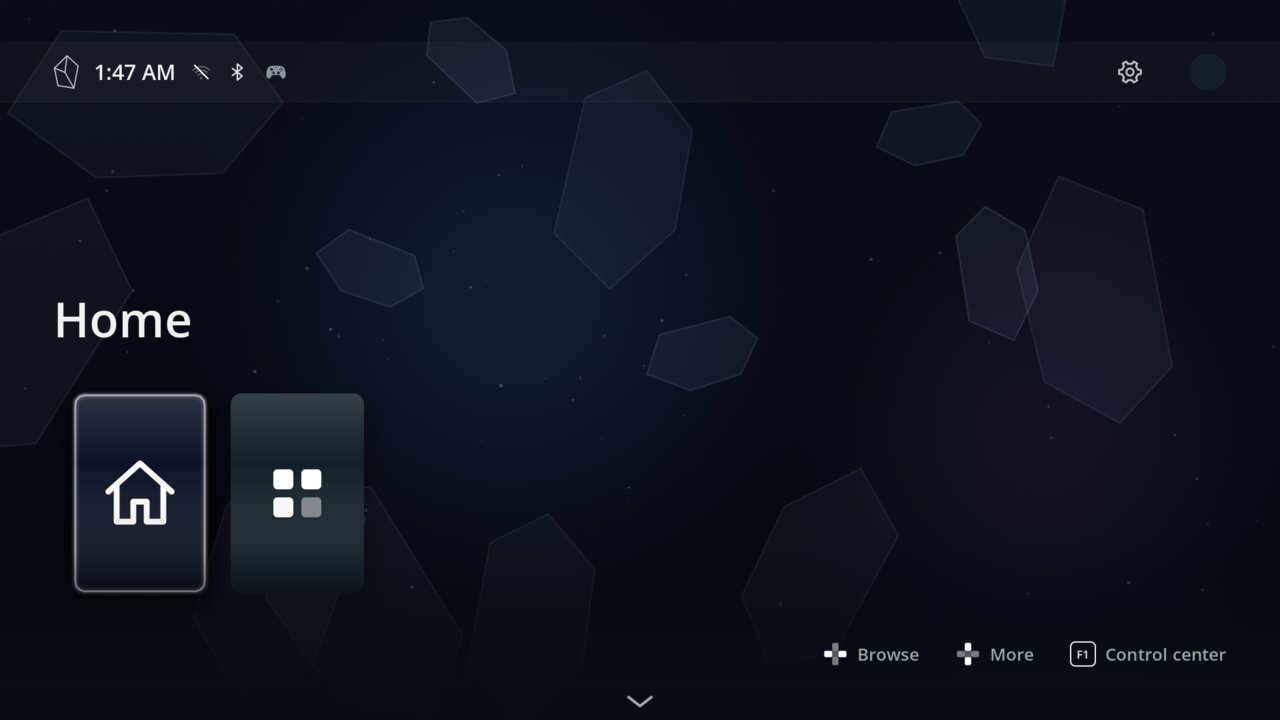
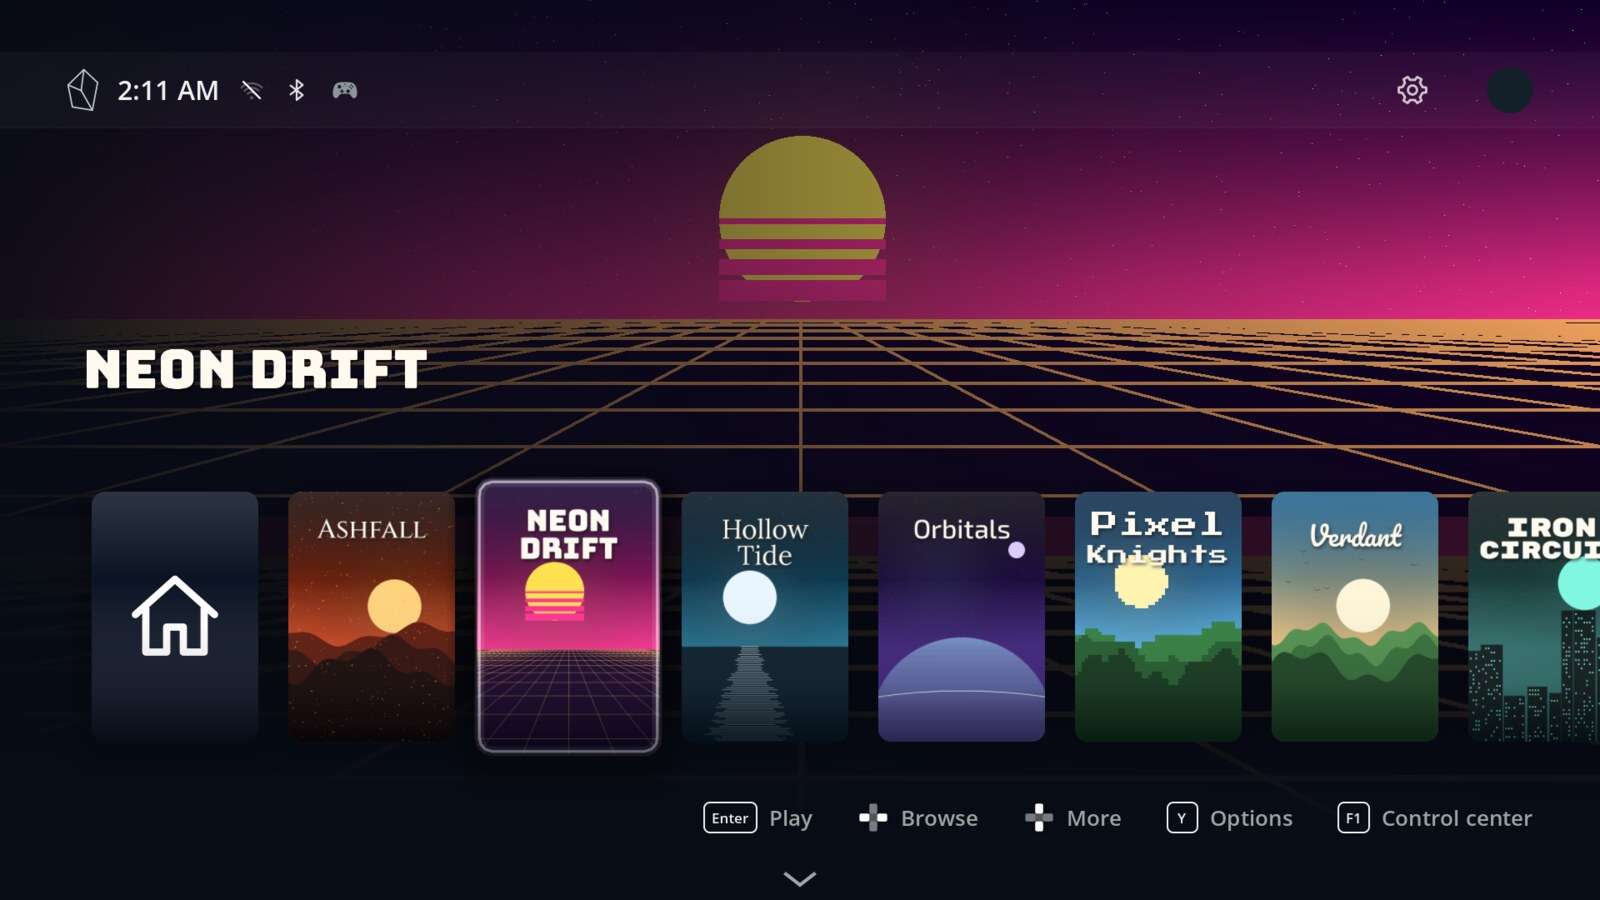
Tephra 0.99.72

diff --git a/tools/demo_games.py b/tools/demo_games.py
@@ -1,0 +1,217 @@
+#!/usr/bin/env python3
+"""Makes a pretend Steam folder full of made-up games with original cover art, for README screenshots.
+
+    python3 tools/demo_games.py <home folder>     then run tools/ui-test.sh with HOMESEED=<home folder>
+                                                  and the printed "home_pinned" list in PRESEED
+
+Every game and picture is invented here (no real game art). The games are written into Steam's list of non-Steam
+games (userdata/<id>/config/shortcuts.vdf) with their covers in config/grid, the way Steam stores custom art.
+"""
+import math, os, random, struct, sys, zlib
+from PIL import Image, ImageDraw, ImageFilter, ImageFont
+
+FONTS = os.path.join(os.path.dirname(__file__), "..", "shell", "tephra-shell", "assets", "fonts")
+
+# title, font, sky top, sky bottom, sun colour, hill colours (far to near), extra
+GAMES = [
+    ("Ashfall", "cinzel.ttf", "#1a0604", "#d2451c", "#ffd27a", ["#5a1408", "#2c0904", "#120302"], "embers"),
+    ("Neon Drift", "bungee.ttf", "#12002b", "#ff2f8e", "#ffe14f", [], "synth"),
+    ("Hollow Tide", "lora.ttf", "#03111f", "#1d6f8f", "#e9f6ff", [], "sea"),
+    ("Orbitals", "exo2.ttf", "#05010f", "#3b1d7a", "#9be7ff", [], "planet"),
+    ("Pixel Knights", "pressstart.ttf", "#0c2a4a", "#59b4e8", "#fff3b0", ["#2f7d3c", "#1e5a2a", "#0f3418"], "pixel"),
+    ("Verdant", "pacifico.ttf", "#1e5f8a", "#f6c97f", "#fff6d8", ["#4e8f4a", "#2f6b33", "#173f1d"], "birds"),
+    ("Iron Circuit", "rubikmono.ttf", "#0b1416", "#2c6e6a", "#7ff7e1", [], "city"),
+    ("Last Lantern", "elite.ttf", "#07060a", "#3a2a18", "#ffbf4a", ["#1f170d"], "pines"),
+]
+
+
+def hexc(h):
+    h = h.lstrip("#")
+    return tuple(int(h[i:i + 2], 16) for i in (0, 2, 4))
+
+
+def mix(a, b, t):
+    return tuple(int(a[i] + (b[i] - a[i]) * t) for i in range(3))
+
+
+def scene(w, h, g, seed):
+    title, font, top, bottom, sun, hills, extra = g
+    rnd = random.Random(seed)
+    img = Image.new("RGB", (w, h))
+    d = ImageDraw.Draw(img)
+    a, b = hexc(top), hexc(bottom)
+    horizon = 0.62
+    for y in range(h):
+        d.line([(0, y), (w, y)], fill=mix(a, b, min(1.0, (y / h) / horizon) ** 1.4))
+    if extra in ("stars", "planet", "grid", "synth", "city", "sea", "pines"):
+        for _ in range(int(w * h / 2500)):
+            x, y = rnd.randrange(w), rnd.randrange(int(h * horizon))
+            v = rnd.randint(120, 255)
+            d.point((x, y), fill=(v, v, v))
+    # sun or moon, with a soft glow
+    cx, cy, r = w * rnd.uniform(0.3, 0.7), h * horizon * rnd.uniform(0.55, 0.8), min(w, h) * 0.16
+    glow = Image.new("RGB", (w, h), (0, 0, 0))
+    ImageDraw.Draw(glow).ellipse([cx - r * 2.2, cy - r * 2.2, cx + r * 2.2, cy + r * 2.2], fill=mix(hexc(sun), (0, 0, 0), 0.55))
+    img = Image.composite(glow.filter(ImageFilter.GaussianBlur(r * 0.9)), img, glow.convert("L").filter(ImageFilter.GaussianBlur(r)).point(lambda v: v // 2))
+    d = ImageDraw.Draw(img)
+    if extra == "planet":
+        cx, cy, r = w * 0.5, h * 0.95, min(w, h) * 0.55
+        for k in range(30):  # banded gas giant
+            t = k / 30
+            d.chord([cx - r, cy - r, cx + r, cy + r], 180 + t * 180, 360 - t * 180 + 0.01, fill=mix(hexc(sun), hexc("#3b1d7a"), t * 0.8))
+        d.ellipse([cx - r * 1.7, cy - r * 0.42, cx + r * 1.7, cy + r * 0.42], outline=hexc("#e8f8ff"), width=max(3, w // 160))
+        d.ellipse([w * 0.78, h * 0.2, w * 0.78 + r * 0.18, h * 0.2 + r * 0.18], fill=hexc("#d9c8ff"))
+    elif extra == "synth":
+        d.ellipse([cx - r, cy - r, cx + r, cy + r], fill=hexc(sun))
+        for k in range(8):  # striped sun
+            yy = cy + r * (k / 8 * 2 - 1)
+            if k > 3:
+                d.rectangle([cx - r, yy, cx + r, yy + r * 0.06 * (k - 3)], fill=hexc(bottom))
+    else:
+        d.ellipse([cx - r, cy - r, cx + r, cy + r], fill=hexc(sun))
+    if extra == "synth":
+        d.rectangle([0, int(h * horizon), w, h], fill=hexc("#140026"))
+        extra = "grid"
+    if extra == "grid":
+        base = int(h * horizon)
+        col = mix(hexc(sun), hexc(bottom), 0.3)
+        for i in range(-20, 21):
+            d.line([(w / 2 + i * w * 0.02, base), (w / 2 + i * w * 0.25, h)], fill=col, width=max(1, w // 400))
+        y, step = base, 4.0
+        while y < h:
+            d.line([(0, y), (w, y)], fill=col, width=max(1, w // 400))
+            step *= 1.35
+            y += int(step)
+    # layers of hills, far to near
+    for li, hc in enumerate(hills):
+        base = h * (horizon + li * 0.08)
+        amp = h * (0.10 + li * 0.03)
+        ph, fq = rnd.uniform(0, 6.28), rnd.uniform(1.5, 3.5)
+        pts = [(0, h)]
+        for x in range(0, w + 8, 8):
+            t = x / w
+            y = base - amp * (0.5 + 0.35 * math.sin(t * fq * math.pi + ph) + 0.15 * math.sin(t * fq * 3.1 * math.pi + ph * 2))
+            if extra == "pixel":
+                y = round(y / (h / 40)) * (h / 40)
+            pts.append((x, y))
+        pts.append((w, h))
+        d.polygon(pts, fill=hexc(hc))
+    if extra == "city":
+        x = 0
+        while x < w:
+            bw2, bh = rnd.uniform(0.06, 0.14) * w, rnd.uniform(0.15, 0.55) * h
+            d.rectangle([x, h - bh, x + bw2, h], fill=hexc("#0a1617"))
+            for wy in range(int(h - bh + 10), h - 6, max(8, h // 60)):
+                for wx in range(int(x + 6), int(x + bw2 - 6), max(8, w // 60)):
+                    if rnd.random() < 0.3:
+                        d.rectangle([wx, wy, wx + w // 160 + 1, wy + h // 220 + 1], fill=hexc(sun))
+            x += bw2 + rnd.uniform(0, 0.02) * w
+    if extra == "sea":
+        base = int(h * horizon)
+        d.rectangle([0, base, w, h], fill=hexc("#041826"))
+        for yy in range(base, h, max(3, h // 120)):
+            t = (yy - base) / (h - base)
+            half = r * (0.4 + t * 1.4) * rnd.uniform(0.6, 1.0)
+            d.line([(cx - half, yy), (cx + half, yy)], fill=mix(hexc(sun), hexc("#041826"), 0.35 + t * 0.4), width=max(1, h // 300))
+    if extra == "pines":
+        for li, col in enumerate(["#140f08", "#090604"]):
+            for _ in range(int(w / 25)):
+                x, ph = rnd.uniform(-0.05, 1.05) * w, rnd.uniform(0.18, 0.35) * h * (1 + li * 0.4)
+                bot = h * (0.82 + li * 0.1)
+                d.polygon([(x, bot - ph), (x - ph * 0.22, bot), (x + ph * 0.22, bot)], fill=hexc(col))
+            d.rectangle([0, h * (0.82 + li * 0.1), w, h], fill=hexc(col))
+        lx, ly = w * 0.62, h * 0.8
+        gl = Image.new("L", (w, h), 0)
+        ImageDraw.Draw(gl).ellipse([lx - w * 0.12, ly - w * 0.12, lx + w * 0.12, ly + w * 0.12], fill=200)
+        img = Image.composite(Image.new("RGB", (w, h), hexc(sun)), img, gl.filter(ImageFilter.GaussianBlur(w * 0.05)).point(lambda v: v // 2))
+        d = ImageDraw.Draw(img)
+        d.rectangle([lx - w * 0.012, ly - w * 0.02, lx + w * 0.012, ly + w * 0.02], fill=hexc("#fff0c0"))
+    if extra == "embers":
+        for _ in range(int(w * h / 1800)):
+            x, y = rnd.randrange(w), rnd.randrange(h)
+            s = rnd.choice([1, 1, 2, 3])
+            d.ellipse([x, y, x + s, y + s], fill=(255, rnd.randint(120, 210), 60))
+    if extra == "birds":
+        for _ in range(9):
+            x, y, s = rnd.uniform(0.1, 0.9) * w, rnd.uniform(0.1, 0.4) * h, rnd.uniform(0.01, 0.02) * w
+            d.line([(x - s, y - s * 0.4), (x, y), (x + s, y - s * 0.4)], fill=(30, 40, 50), width=max(2, w // 300))
+    if extra == "pixel":
+        img = img.resize((w // 12, h // 12), Image.NEAREST).resize((w, h), Image.NEAREST)
+    return img
+
+
+def title_text(img, g, size_frac, y_frac, shadow=True):
+    w, h = img.size
+    f = ImageFont.truetype(os.path.join(FONTS, g[1]), int(min(w, h * 1.4) * size_frac))
+    d = ImageDraw.Draw(img)
+    words = g[0].split() if w < h else [g[0]]
+    lines = words
+    ys = y_frac * h
+    for line in lines:
+        bw = d.textbbox((0, 0), line, font=f)
+        while bw[2] - bw[0] > w * 0.88:
+            f = ImageFont.truetype(os.path.join(FONTS, g[1]), int(f.size * 0.92))
+            bw = d.textbbox((0, 0), line, font=f)
+        tw, th = bw[2] - bw[0], bw[3] - bw[1]
+        x = (w - tw) / 2 - bw[0]
+        if shadow:
+            sh = Image.new("RGBA", img.size, (0, 0, 0, 0))
+            ImageDraw.Draw(sh).text((x + 4, ys + 6), line, font=f, fill=(0, 0, 0, 170))
+            img.paste(sh.filter(ImageFilter.GaussianBlur(6)), (0, 0), sh.filter(ImageFilter.GaussianBlur(6)))
+        d.text((x, ys), line, font=f, fill=(255, 250, 240))
+        ys += th * 1.25
+    return img
+
+
+def logo(g, w=800, h=300):
+    img = Image.new("RGBA", (w, h), (0, 0, 0, 0))
+    f = ImageFont.truetype(os.path.join(FONTS, g[1]), int(h * 0.42))
+    d = ImageDraw.Draw(img)
+    bw = d.textbbox((0, 0), g[0], font=f)
+    while bw[2] - bw[0] > w * 0.95:
+        f = ImageFont.truetype(os.path.join(FONTS, g[1]), int(f.size * 0.9))
+        bw = d.textbbox((0, 0), g[0], font=f)
+    x, y = (w - (bw[2] - bw[0])) / 2 - bw[0], (h - (bw[3] - bw[1])) / 2 - bw[1]
+    d.text((x + 3, y + 4), g[0], font=f, fill=(0, 0, 0, 160))
+    d.text((x, y), g[0], font=f, fill=(255, 250, 240, 255))
+    return img
+
+
+def vdf(games):
+    def s(k, v):
+        return b"\x01" + k.encode() + b"\x00" + v.encode() + b"\x00"
+
+    def i(k, v):
+        return b"\x02" + k.encode() + b"\x00" + struct.pack("<I", v & 0xFFFFFFFF)
+
+    out = b"\x00shortcuts\x00"
+    for n, (appid, title, exe, last) in enumerate(games):
+        out += b"\x00" + str(n).encode() + b"\x00"
+        out += i("appid", appid) + s("AppName", title) + s("Exe", exe) + s("StartDir", "/") + s("LaunchOptions", "")
+        out += i("LastPlayTime", last) + b"\x00tags\x00\x08" + b"\x08"
+    return out + b"\x08\x08"
+
+
+def main(home):
+    steam = os.path.join(home, ".local/share/Steam")
+    grid = os.path.join(steam, "userdata/10000001/config/grid")
+    os.makedirs(grid, exist_ok=True)
+    os.makedirs(os.path.join(steam, "steamapps"), exist_ok=True)
+    entries = []
+    now = 1798000000
+    for n, g in enumerate(GAMES):
+        exe = '"/opt/games/%s/run"' % g[0].lower().replace(" ", "-")
+        appid = (zlib.crc32((exe + g[0]).encode()) | 0x80000000) & 0xFFFFFFFF
+        entries.append((appid, g[0], exe, now - n * 86400 * 3))
+        title_text(scene(600, 900, g, n), g, 0.16, 0.08).save(os.path.join(grid, "%dp.png" % appid))
+        scene(1920, 620, g, n).save(os.path.join(grid, "%d_hero.png" % appid))
+        title_text(scene(920, 430, g, n), g, 0.11, 0.08).save(os.path.join(grid, "%d.png" % appid))
+        logo(g).save(os.path.join(grid, "%d_logo.png" % appid))
+    with open(os.path.join(steam, "userdata/10000001/config/shortcuts.vdf"), "wb") as f:
+        f.write(vdf(entries))
+    # Non-Steam games show on Home only when pinned: put this in the PRESEED settings.
+    print('"home_pinned": ' + str([str(e[0]) for e in entries]).replace("'", '"'))
+
+
+if __name__ == "__main__":
+    main(sys.argv[1] if len(sys.argv) > 1 else "demo-home")

diff --git a/CLAUDE.md b/CLAUDE.md
@@ -69,5 +69,6 @@ processes don't survive between tool calls.
 
 `tools/ui-test.sh <plan.json> <outdir>` runs the real Tephra under Xvfb with software rendering on an empty data folder, presses keys
 and saves screenshots (the plan format is in `tools/ui_shot.gd`; needs `xvfb-run` and ImageMagick to look at several shots at once).
-Use it to actually look at a screen you built, not only to compile it. No controller, audio, Steam or kscreen-doctor there, so
+Use it to actually look at a screen you built, not only to compile it. For README pictures, `tools/demo_games.py <dir>` makes
+made-up games with original covers: pass `HOMESEED=<dir>` and its printed `home_pinned` list in `PRESEED` (`docs/` holds the results). No controller, audio, Steam or kscreen-doctor there, so
 those parts show their "not available" states.

diff --git a/README.md b/README.md
@@ -4,6 +4,8 @@
 
 ![Tephra's home screen](docs/home.jpg)
 
+<sub>The games in these pictures are made up for the screenshots; Tephra shows your own.</sub>
+
 ## Install
 
 You need **Arch Linux** (or an Arch-based distro) with **KDE Plasma on Wayland**. Then run one command:
@@ -33,6 +35,10 @@ cd ~/tephra && ./install.sh
 - **PS2 games** through PCSX2, with cover art and RetroAchievements next to Steam's.
 - **Controllers.** DualSense (lightbar and player lights), Xbox and Switch layouts, plus an on-screen keyboard you can also type into from your phone.
 - **Screenshots and recording** from the controller's touchpad.
+
+![The Library and the control center](docs/screens.jpg)
+
+### Themes
 
 ![Eight of the themes](docs/themes.jpg)
 
